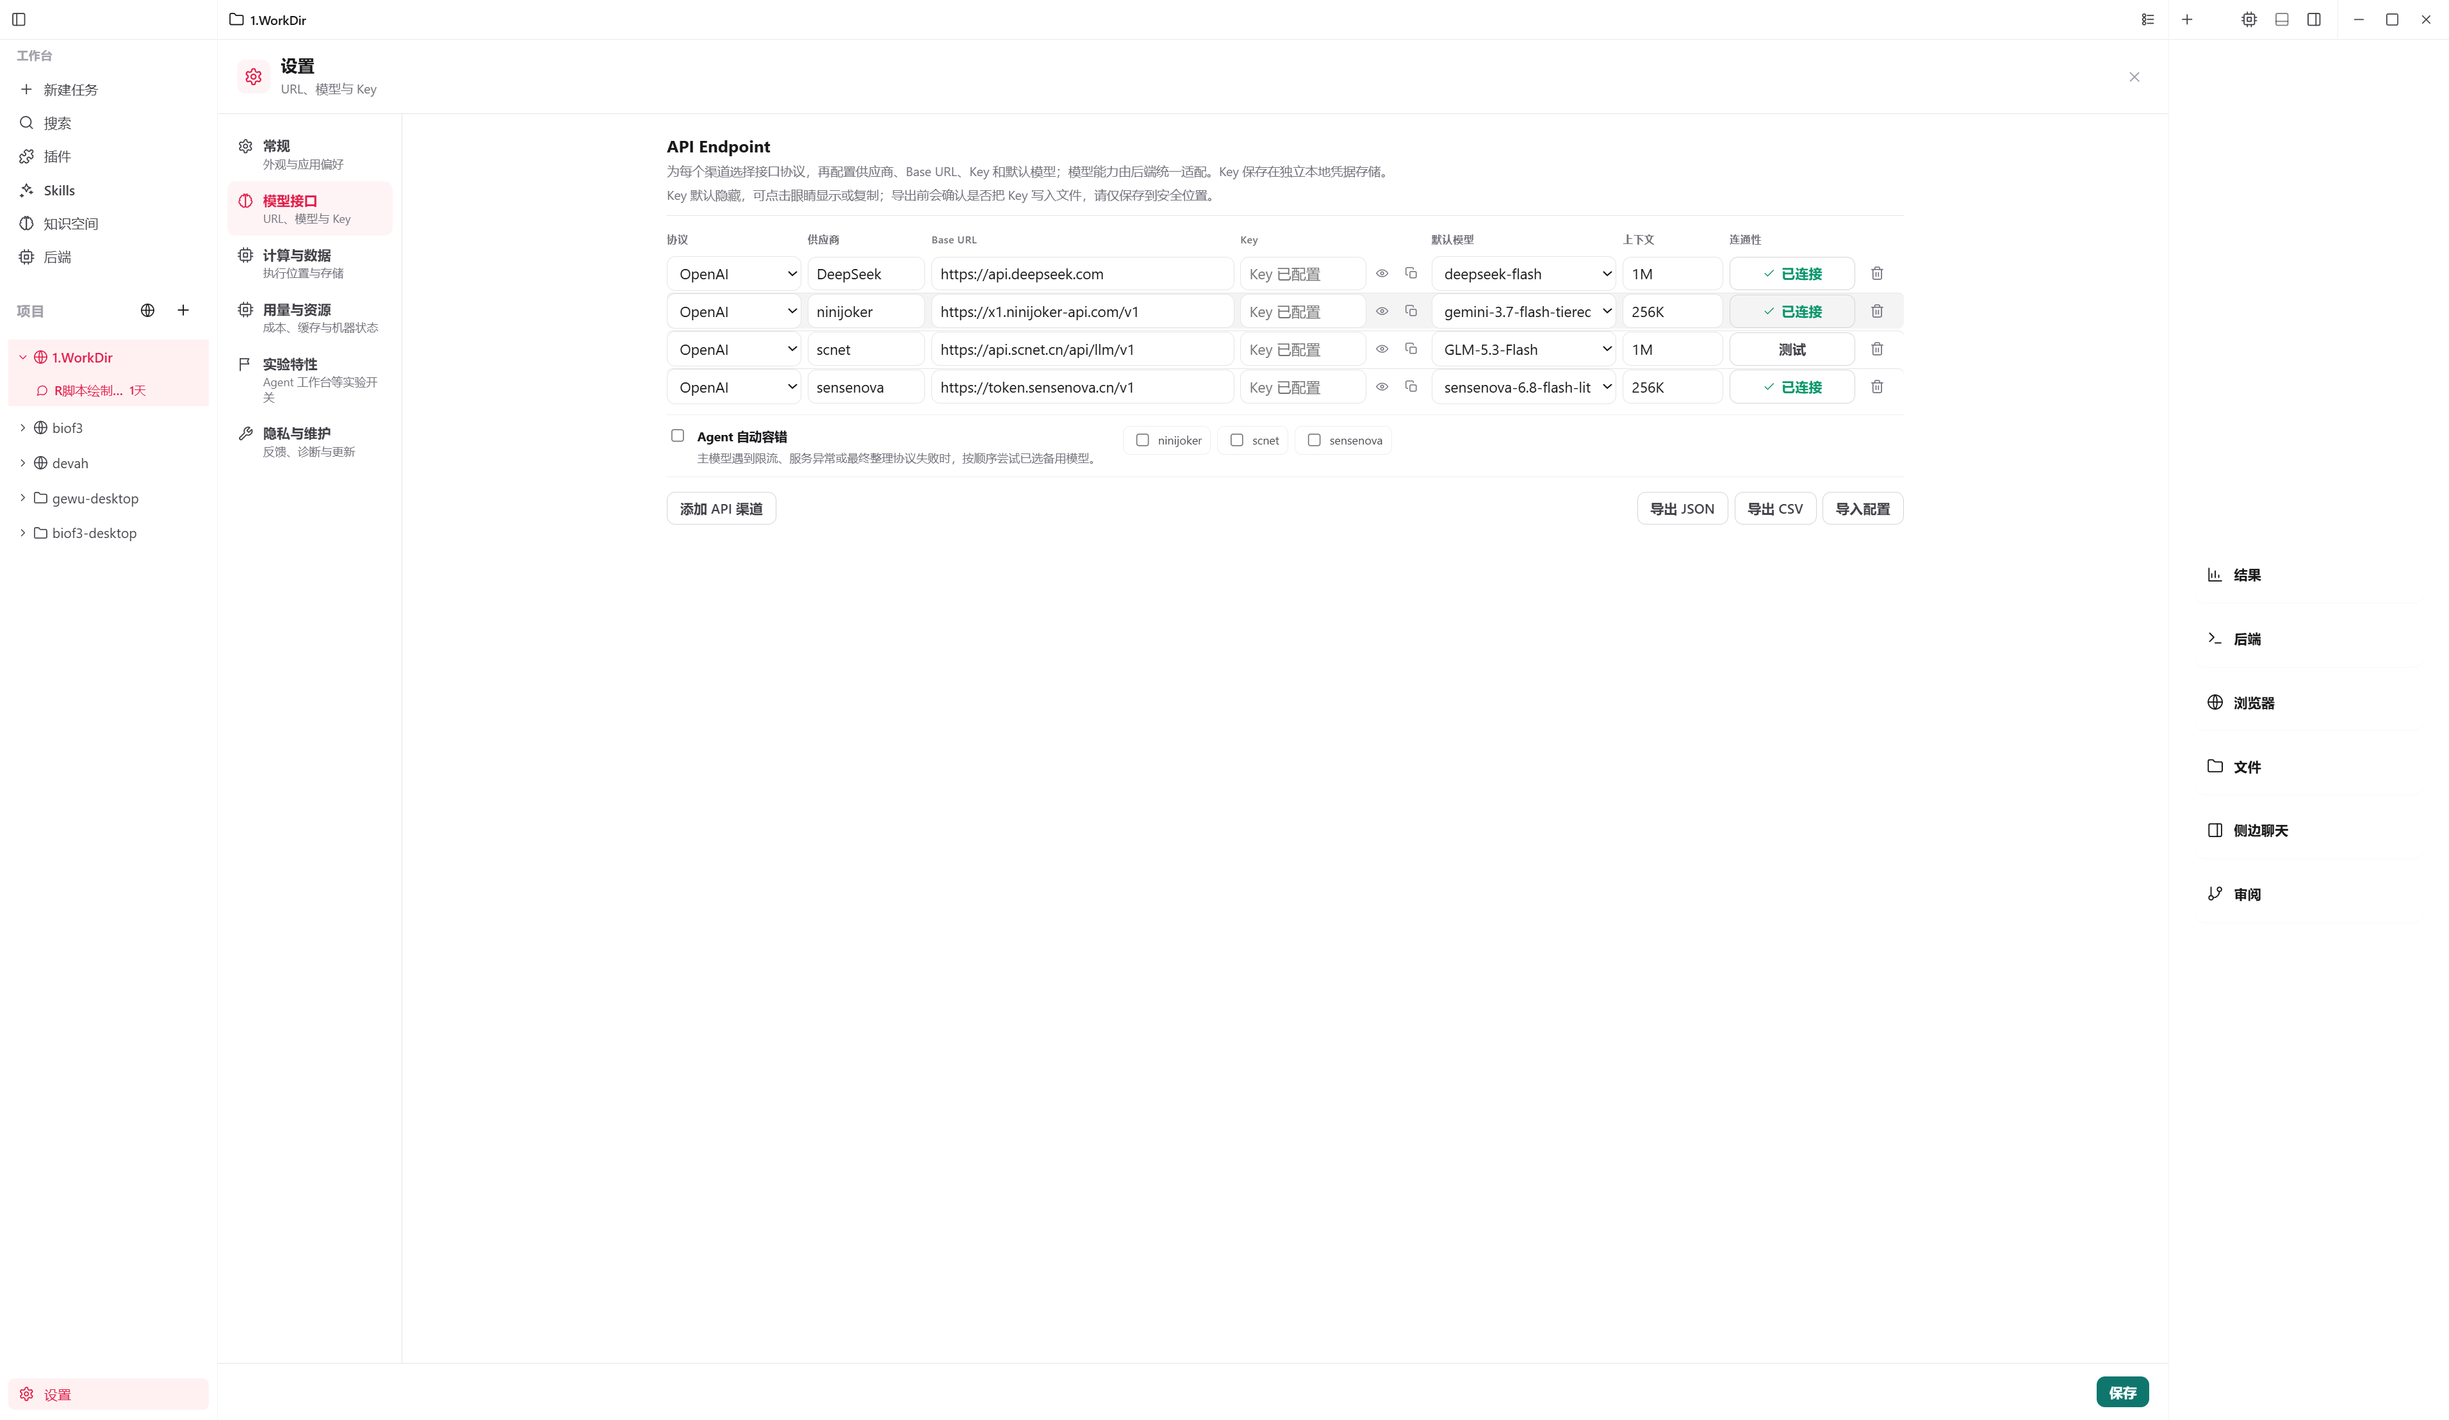
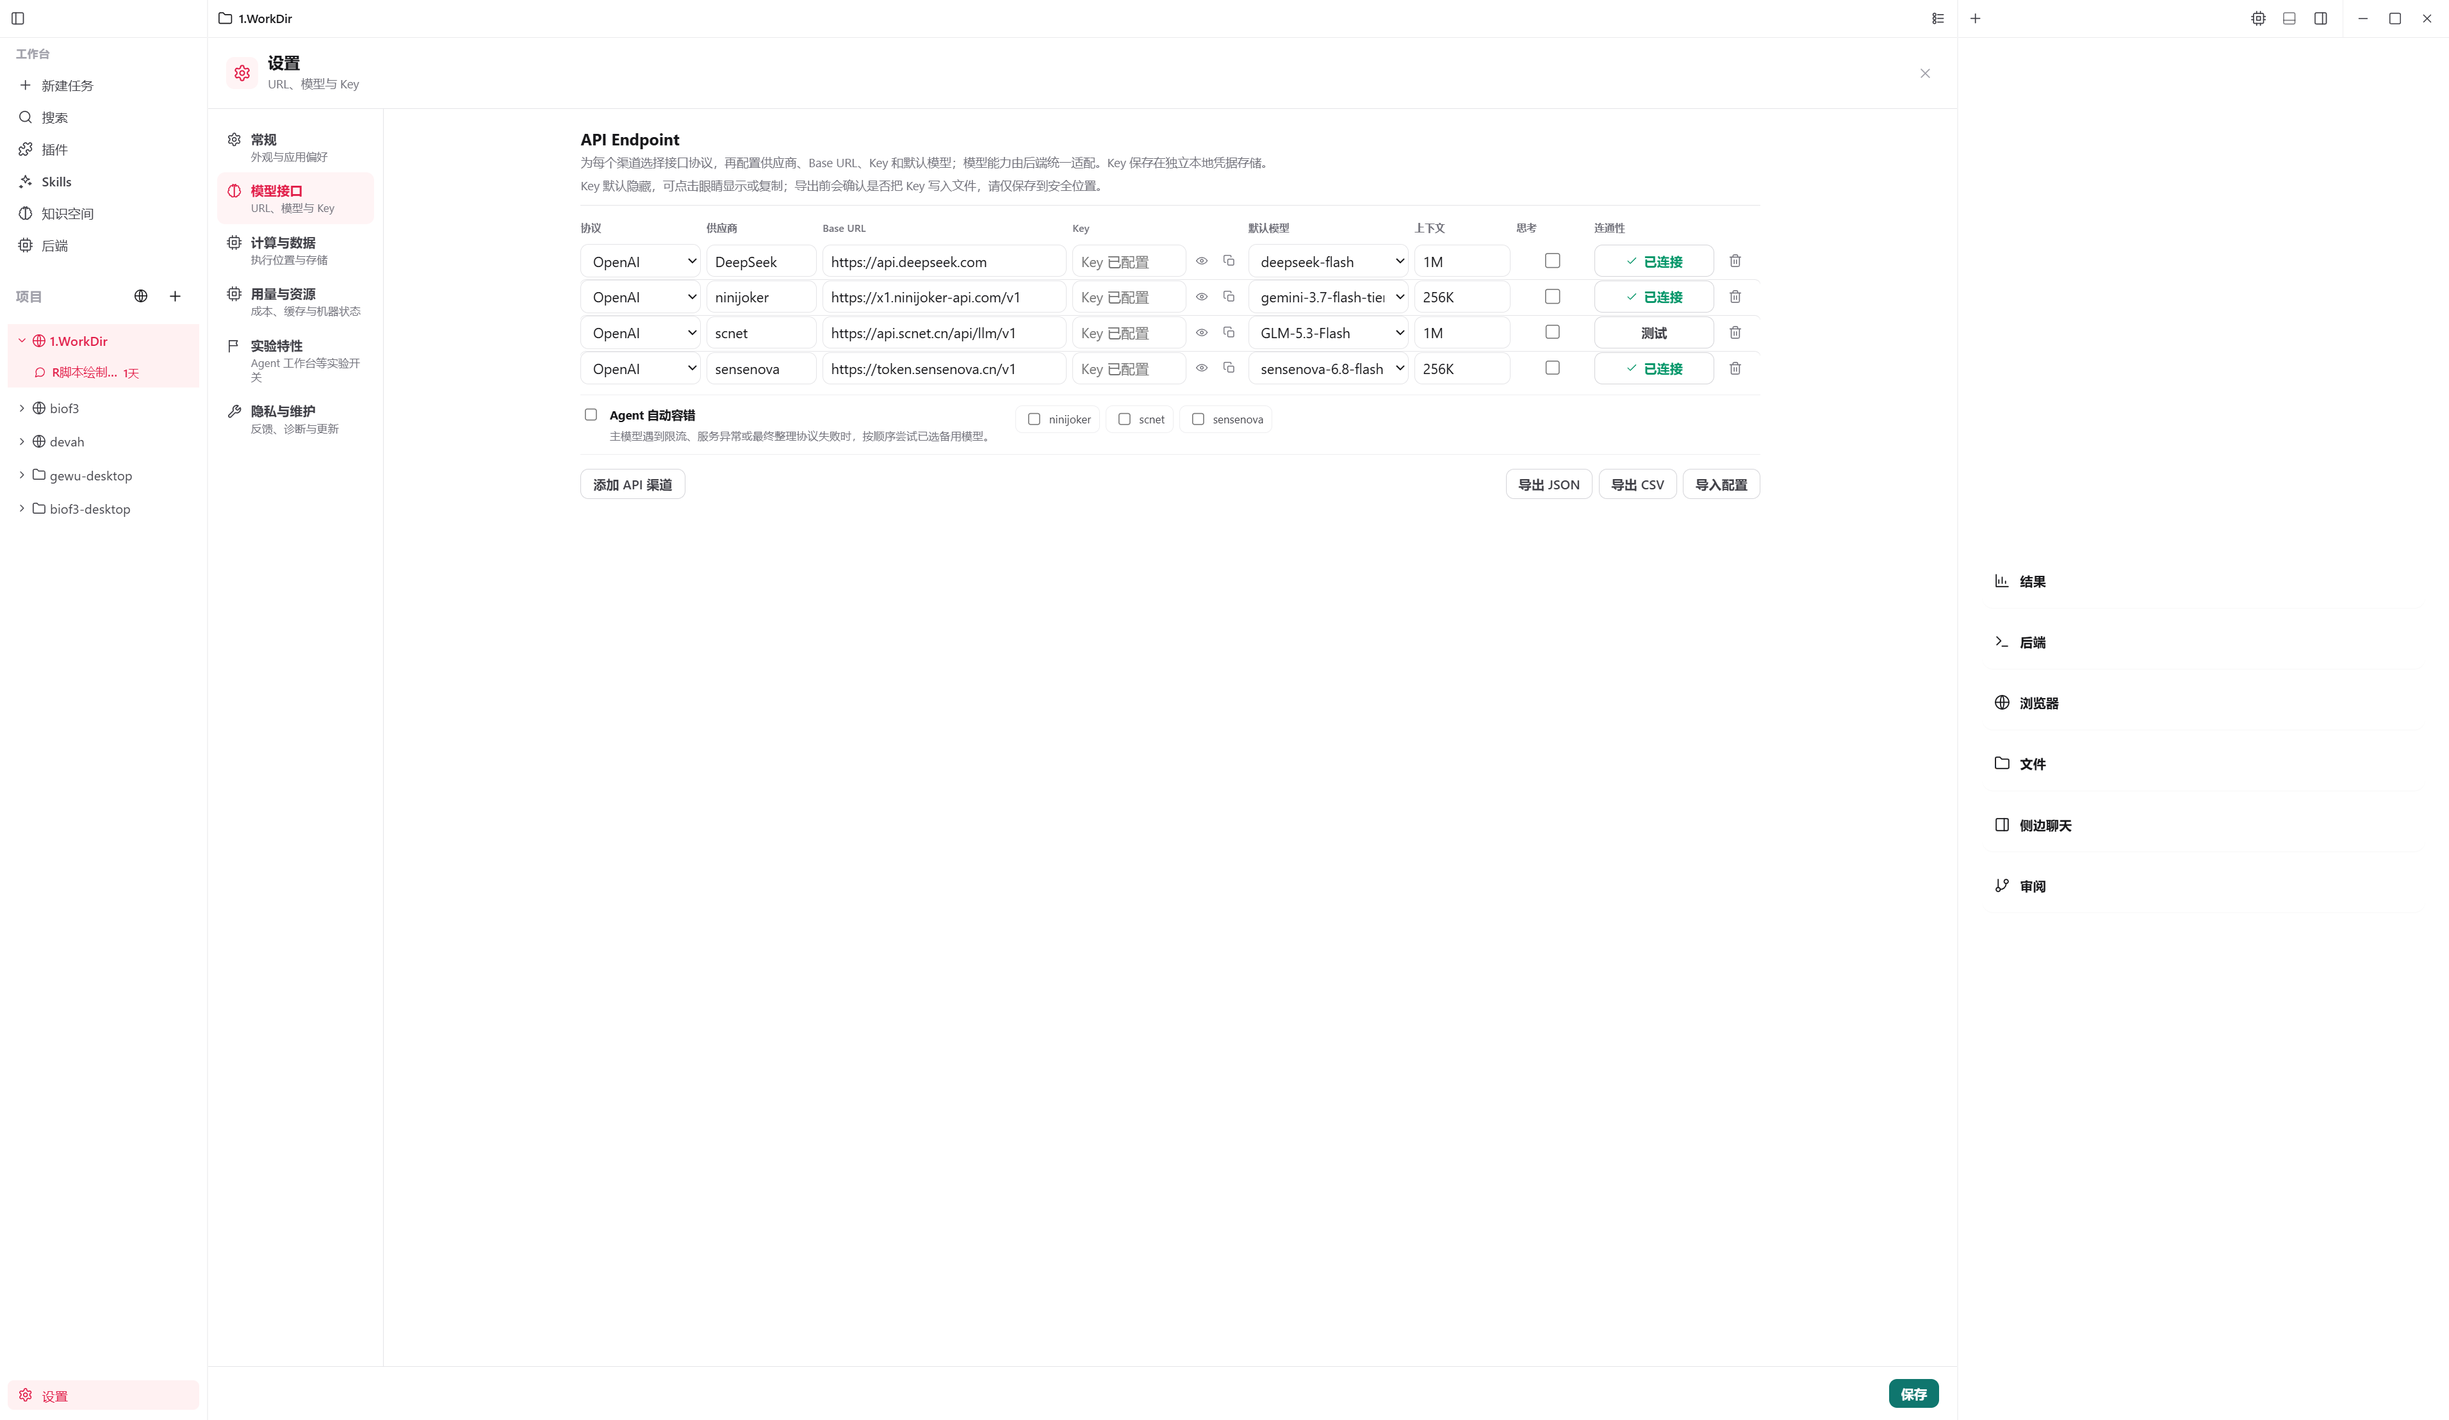
feat(ui): UI-343 渠道级「支持思考档位」声明开关（BLOCK-81 P1 切片2，用户裁决渠道级开关）
来源：P1 实现撞到 plan 缺口——D3 要求「仅对声明 capabilities.reasoning 的渠道发参」，但设置页此前无处声明该能力位，照此实现 composer 档位控件将永不出现。用户裁决：渠道级开关（非按模型名推断 / 非默认全开+容错）。

落地：endpoint 网格新增第 9 列「思考」复选框（上下文 与 连通性 之间），读写 profile.capabilities 的 reasoning（未设置时以 ['chat','streaming','tools'] 为基线）；列宽 minmax(72px,0.55fr)；表头与渠道行 min-width 1060→1146，容器查询阈值 1058→1146（必须 ≥ 表格 min-width，否则中间宽度区间会「多列表格但仍横向滚动」）。

flow 升级为自适应推导：列数/标签数/形态判据全部从 DOM 实测（不再硬编码 8 列与 1058 阈值）；形态判据改用实测轨道数（窄态 min-width 被置 0 会让宽度阈值回落 → 中间区间误判）。实机双形态各 6/6：宽 tracks=9/minWidth=1146/零溢出/列宽一致；窄 tracks=2/标签 9/9/不再横向滚动。定向 64/64 + tsc 0 + 三门禁 PASS。G0 开发期常态 · 不外推 packaged/Provider/GA.

diff --git a/frontend/src/components/desktop/desktop.css b/frontend/src/components/desktop/desktop.css
@@ -454,7 +454,7 @@
   margin-bottom: 8px;
   overflow-x: auto;
   /* UI-344（BLOCK-81 D8）—— endpoint 网格的**容器查询上下文**：窄容器
-     （< 表格 min-width 1058px，例如与左右栏共用宽度时）切换到两行式堆叠，
+     （< 表格 min-width 1146px，例如与左右栏共用宽度时）切换到两行式堆叠，
      而非让用户横向滚动。inline-size 让本元素宽度只由父级决定，
      overflow-x 滚动行为不受影响（宽容器下无溢出即无滚动条）。 */
   container-type: inline-size;
@@ -568,11 +568,13 @@
 .gewu-endpoint-list-header,
 .gewu-endpoint-card__grid {
   display: grid;
-  /* UI-342（BLOCK-81 P0）—— **8 列显式定义**（D7）：此前模板只有 7 列，而表头与
+  /* UI-342（BLOCK-81 P0）—— **列数显式定义**：此前模板只有 7 列，而表头与
      渠道行各有 8 个子元素（协议/供应商/Base URL/Key/默认模型/上下文/连通性/删除），
      第 8 个（删除垃圾桶）被挤到隐式新行独占一行、连通性只剩 32px 导致「已连接」
      文字溢出与右列重合（用户截图 + 代码双向印证）。列宽终值：协议/供应商略收窄，
-     Base URL 由 2fr 降至 1.8fr 且下限 240→200px（用户反馈过宽），连通性 32→120px。 */
+     Base URL 由 2fr 降至 1.8fr 且下限 240→200px（用户反馈过宽），连通性 32→120px。
+     **P1 扩展第 9 列「思考」**（渠道级 reasoning 能力位开关，用户裁决「渠道级开关」）：
+     minmax(72px,0.55fr)，位于上下文与连通性之间。 */
   grid-template-columns:
     minmax(120px, 0.8fr)
     minmax(110px, 0.7fr)
@@ -580,13 +582,28 @@
     minmax(170px, 1.1fr)
     minmax(160px, 1.1fr)
     96px
+    72px
     120px
     40px;
   align-items: center;
   gap: 6px;
-  /* 表头与渠道行共用同一最小宽度：容器变窄时两者一起横向滚动（.gewu-model-list
-     overflow-x:auto），避免此前的表头 1040 而渠道行无下限造成的列错位 */
-  min-width: 1060px;
+  /* 表头与渠道行共用同一最小宽度（9 列合计 1088 + 8×6 gap = 1136，取 1146 留余量）：
+     容器变窄时两者一起横向滚动（.gewu-model-list overflow-x:auto），避免此前的
+     表头 1040 而渠道行无下限造成的列错位 */
+  min-width: 1146px;
+}
+
+/* P1 — 渠道级「支持思考档位」开关单元格（第 9 列） */
+.gewu-endpoint-reasoning {
+  display: inline-flex;
+  align-items: center;
+  justify-content: center;
+}
+
+.gewu-endpoint-reasoning input {
+  width: 15px;
+  height: 15px;
+  cursor: pointer;
 }
 
 /* UI-344（BLOCK-81 D8）—— 单元格自带标签：宽容器隐藏（`display:none` 的元素
@@ -597,7 +614,7 @@
 }
 
 /* 窄容器：两行式堆叠（Chrome 设置页式）——隐藏表头、标签显形、单列成对布局 */
-@container gewu-model-list (max-width: 1058px) {
+@container gewu-model-list (max-width: 1146px) {
   .gewu-endpoint-list-header {
     display: none;
   }
@@ -623,7 +640,8 @@
   }
 
   .gewu-endpoint-card__test,
-  .gewu-endpoint-card__delete {
+  .gewu-endpoint-card__delete,
+  .gewu-endpoint-reasoning {
     justify-self: start;
   }
 }

diff --git a/frontend/src/components/desktop/DesktopSettingsPanel.tsx b/frontend/src/components/desktop/DesktopSettingsPanel.tsx
@@ -579,6 +579,7 @@ export function DesktopSettingsPanel({ onClose }: Props): React.ReactElement {
                   <span>Key</span>
                   <span>默认模型</span>
                   <span>上下文</span>
+                  <span>思考</span>
                   <span>连通性</span>
                   <span />
                 </div>
@@ -723,6 +724,24 @@ export function DesktopSettingsPanel({ onClose }: Props): React.ReactElement {
                       aria-label="上下文窗口"
                       title="模型上下文窗口，如 64K、128K、1M；留空则使用默认值"
                     />
+                    <span className="gewu-endpoint-field-label" aria-hidden="true">思考</span>
+                    <label
+                      className="gewu-endpoint-reasoning"
+                      title="声明该渠道支持思考档位：勾选后 composer 的档位控件才会出现，并按协议映射上游参数"
+                    >
+                      <input
+                        type="checkbox"
+                        checked={(profile.capabilities || []).includes('reasoning')}
+                        onChange={(e) => {
+                          const current = profile.capabilities || ['chat', 'streaming', 'tools'];
+                          const next = e.target.checked
+                            ? Array.from(new Set([...current, 'reasoning']))
+                            : current.filter((cap) => cap !== 'reasoning');
+                          updateProfile(profile.id, { capabilities: next });
+                        }}
+                        aria-label={`${profile.label || '自定义渠道'} 支持思考档位`}
+                      />
+                    </label>
                     <span className="gewu-endpoint-field-label" aria-hidden="true">连通性</span>
                     <button
                       type="button"

diff --git a/docs/block-81-thinking-level-endpoint-plan.md b/docs/block-81-thinking-level-endpoint-plan.md
@@ -102,5 +102,6 @@
 
 ## 11. 进度记录
 
+- 2026-09-11 **P1 切片 2：渠道级 reasoning 声明面（UI-343）落地**：用户裁决「渠道级开关」——endpoint 网格新增第 9 列「思考」复选框（读写 `profile.capabilities` 的 `reasoning`），列宽 minmax(72px,0.55fr)，表头/渠道行 min-width 与容器查询阈值同步 1060→1146；flow `ui342-endpoint-grid` 改为自适应推导（列数/标签数/形态判据全部实测，形态用轨道数判定），实机双形态各 6/6。**P1 剩余**：注入点接线（ai-agent/chat.js reqBody + copilot chat 路径）+ 400 去参重试落地。G0 开发期常态 · 不外推 packaged/Provider/GA.
 - 2026-09-11 **P0 出口达成 + P1 切片 1（映射内核）落地**：① P0＝UI-342 网格修复（8 列显式，实机 6/6，`5b3b677c`）+ UI-344 窄容器两行式自适应（容器查询 + 标签 span，实机双形态 6/6+6/6，`280cb42c`；用户裁决「改布局而非收侧栏」）；D1/D4/D5 用户裁决确认（三档「关闭/标准/高」/ 会话级 / 模型选择器旁+Ctrl+T），D8 新增。② P1 切片 1＝**思考档位映射内核** `core/shared-backend/llm-providers/thinking-level.js`（单一映射点：中性档位 → 上游参数；`standard`＝不发参数保证零行为变化；能力门控 `capabilities.reasoning`；按 **protocol** 映射 openai-compatible→`reasoning_effort` / anthropic-messages→`thinking` / dashscope-native→`enable_thinking`）+ `isUnknownParameterError()` 去参重试判据（正反例覆盖，避免把鉴权/额度/模型不存在误判为参数问题）+ 定向测试 `test/thinking-level.test.mjs` **8/8**；impact-map 新增 `block81-thinking-level` 规则。**诚实边界（写进代码注释）**：OpenAI 兼容协议无真「关闭」档（off→`minimal`）；GLM 系 `thinking:{type}` 形状经 OpenAI 兼容接入时无法从协议识别 → 靠 D3 去参重试兜底（待渠道级「思考参数形状」声明根治）。③ **P1 剩余（下一步）**：注入点接线（`routes/ai-agent/chat.js:655` 与 copilot chat 路径的 reqBody）+ 400 去参重试落地 + **渠道级 reasoning 能力位声明面**（P0 实机发现：`capabilities.reasoning` 目前 UI 无处声明 → 控件将永不出现，需在 endpoint 网格加「支持思考档位」开关，与 P2/UI-343 协同）。G0 开发期常态 · 不外推 packaged/Provider/GA.
 - 2026-09-11 **立项登记（planned）**：用户两截图提问（ZCode 思考级别 + 设置页布局瑕疵）→ 主 Agent 调研核实：①思考级别=客户端控件+请求参数映射，我方展示侧 UI-272 已就绪、请求侧全缺、但网关→provider 透传管道已通（`model-gateway.js:181` + `deepseek.js:267`），补齐=控件+映射+容错，量级中小；②endpoint 网格 8 元素 vs 7 列定义实锤（`desktop.css:565-572`），连通性挤 32px 窄列文字重合、删除按钮换行。D1-D7 待 P0 评审。plan + DOC-REGISTRY planned + README 112 + roadmap。G0 开发期常态 · 不外推 packaged/Provider/GA。

diff --git a/docs/ui-productization-audit.md b/docs/ui-productization-audit.md
@@ -3145,6 +3145,14 @@ BLOCK-22 PHASE 4 落地：acceptHunk / rejectHunk IPC 成功后派发 typed even
 
 **门禁**：flow `ui342-endpoint-grid` 升级为**形态自适应**（同一 flow 两套断言）——宽容器验 G1–G5（8 列 / 同行 / 零溢出 / 列宽一致 / 共用 min-width），窄容器验 N1–N5（表头隐藏 / 两轨 / 8 标签显形 / 标签与控件成对 / **不再横向滚动**）。**实机双形态全绿**：宽容器 6/6（container=1180）、窄容器 6/6（container=520，scrollWidth=clientWidth=520）；前端全量 **983/983** + tsc 0；证据 `acceptance/block-81/ui342-endpoint-grid-live.json` + 双形态截图（ui342-endpoint-grid.png 窄态两行式）。G0 开发期常态 · 不外推 packaged / Provider / GA。
 
+## UI-343: 渠道级「支持思考档位」声明开关（BLOCK-81 P1 切片2）(2026-09-11 verified)
+
+**来源**：BLOCK-81 P1 实现中撞到 plan 缺口——D3 要求「仅对声明 `capabilities.reasoning` 的渠道发参」，但**设置页此前无处声明该能力位**，照此实现 composer 档位控件将永不出现。用户裁决：**渠道级开关**（而非按模型名推断或默认全开+容错兜底）。
+
+**落地**：endpoint 网格新增**第 9 列「思考」**（位于 上下文 与 连通性 之间）——复选框读写 `profile.capabilities`（勾选→并入 `reasoning`，取消→移除；未设置时以 `['chat','streaming','tools']` 为基线），title 说明「勾选后 composer 档位控件才会出现，并按协议映射上游参数」。列宽 `minmax(72px,0.55fr)`；表头与渠道行 `min-width` 同步 1060→**1146**（9 列合计 1088 + 8×6 gap），容器查询阈值同步 1058→**1146**（必须 ≥ 表格 min-width，否则中间宽度区间会「多列表格但仍横向滚动」）。
+
+**门禁**：flow `ui342-endpoint-grid` 升级为**自适应推导**（列数/标签数/形态判据均从 DOM 实测，不再硬编码 8 列与 1058 阈值；形态判据改用**实测轨道数**——窄态 min-width 被置 0 会让阈值回落造成中间区间误判）；**实机双形态各 6/6**：宽容器 tracks=9 / minWidth=1146 / 零溢出 / 列宽逐列一致；窄容器 tracks=2 / 标签 9/9 显形 / 不再横向滚动。`src/components/desktop` 定向 64/64 + tsc 0。证据 `acceptance/block-81/`。G0 开发期常态 · 不外推 packaged / Provider / GA。
+
 ## UI-342: 供应商设置页 Endpoint 网格修复（8 列显式定义）(2026-09-11 verified)
 
 **来源**：用户截图反馈「供应商的设置界面有细节上的瑕疵——Base URL 输入窗口有些宽了，连通性测试下面有些窄了，导致文字重合；整体再看一下，可以立个新的 block?」→ 立 BLOCK-81，此为 P0（独立小提交）。
